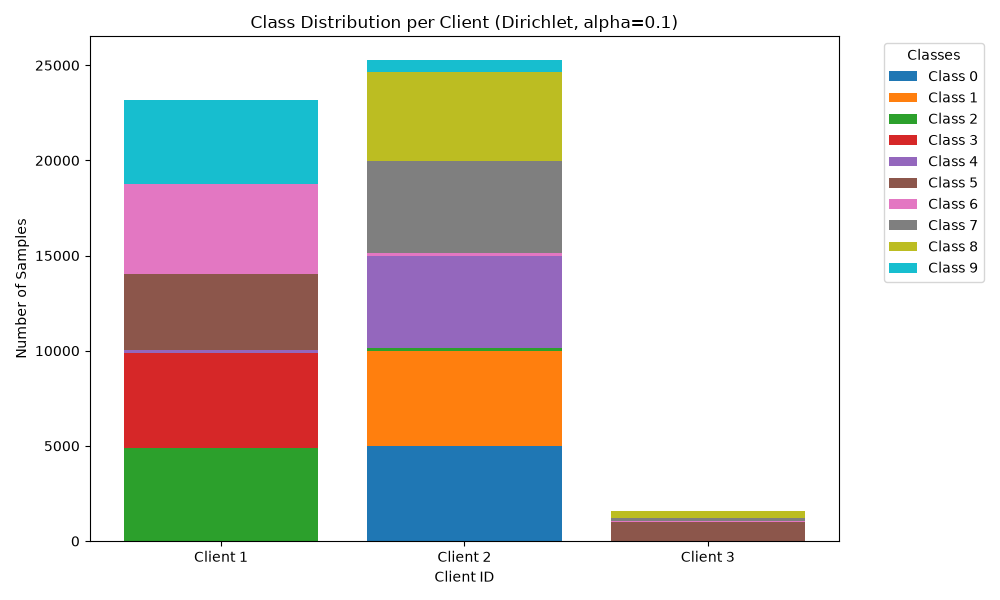
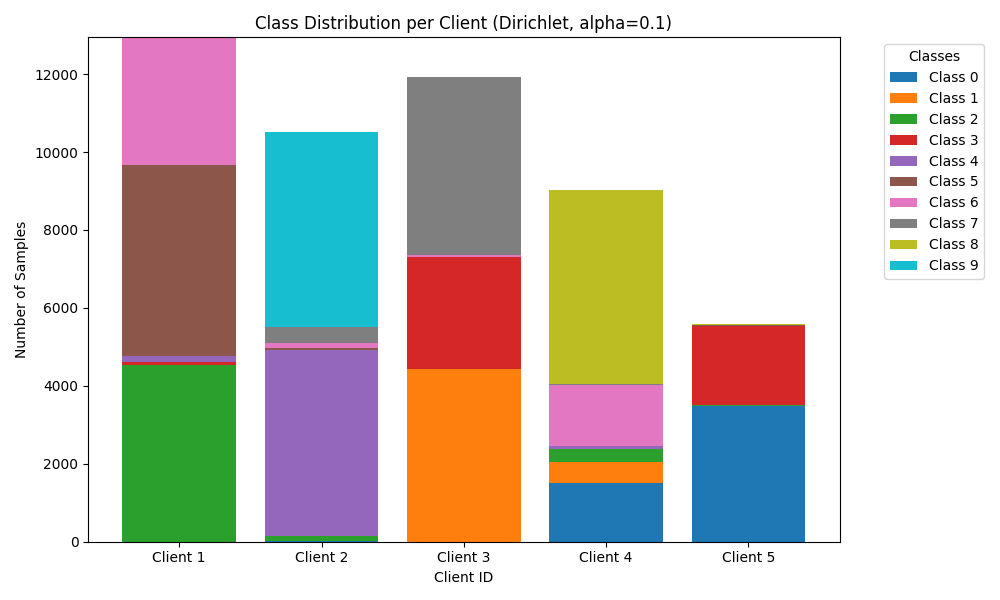
Establish validated DP-FL Stage 1-4 baseline
- corrected 5-client full Dirichlet split
- validated current DP-FL implementation
- genuine Opacus DP-SGD path
- per-client/per-round RDP accounting
- Stage 4 subset smoke-test evidence
- repository hygiene/.gitignore cleanup

diff --git a/federated.py b/federated.py
@@ -70,34 +70,52 @@ class FlowerClient(fl.client.NumPyClient):
                 max_grad_norm=CONFIG.get("max_grad_norm", 1.0),
             )
             
+            actual_sample_rate = getattr(train_loader, "sample_rate", -1.0)
+            actual_steps = len(train_loader)
+            
+            grad_sample_valid = False
+            grad_shapes = {}
+            actual_batch_size = None
+            opt_class = type(optimizer).__name__
+            
+            if not os.path.exists("results/stage4/validation.json"):
+                batch_x, batch_y = next(iter(train_loader))
+                actual_batch_size = len(batch_x)
+                optimizer.zero_grad()
+                loss = torch.nn.CrossEntropyLoss()(self.net(batch_x.to(self.device)), batch_y.to(self.device))
+                loss.backward()
+                for name, param in self.net.named_parameters():
+                    if param.requires_grad and hasattr(param, "grad_sample"):
+                        grad_sample_valid = True
+                        grad_shapes[name] = list(param.grad_sample.shape)
+                optimizer.zero_grad()
+            
             for epoch in range(1, local_epochs + 1):
                 train(self.net, self.device, train_loader, optimizer, epoch)
                 
             epsilon = privacy_engine.accountant.get_epsilon(delta=1e-5)
             print(f"[Client {self.cid}] Opacus Accountant Epsilon: {epsilon:.4f}")
             
-            # Validation logic for grad_sample
-            grad_sample_valid = True
-            grad_shapes = {}
-            for name, param in self.net.named_parameters():
-                if param.requires_grad:
-                    if not hasattr(param, "grad_sample"):
-                        grad_sample_valid = False
-                    else:
-                        grad_shapes[name] = list(param.grad_sample.shape)
-                        
-            # Save validation to a file if it's the first client's first round
             if not os.path.exists("results/stage4/validation.json"):
                 os.makedirs("results/stage4", exist_ok=True)
                 val_data = {
                     "grad_sample_present": grad_sample_valid,
                     "grad_sample_shapes": grad_shapes,
                     "clipping_C": CONFIG.get("max_grad_norm", 1.0),
-                    "noise_sigma": CONFIG.get("noise_multiplier", 1.0)
+                    "noise_sigma": CONFIG.get("noise_multiplier", 1.0),
+                    "actual_batch_size_probed": actual_batch_size,
+                    "optimizer_class": opt_class
                 }
                 with open("results/stage4/validation.json", "w") as f:
                     json.dump(val_data, f, indent=4)
                     
+            metrics = {
+                "client_id": str(self.cid),
+                "sample_rate": float(actual_sample_rate),
+                "dp_steps": int(actual_steps * local_epochs),
+                "sigma": float(CONFIG.get("noise_multiplier", 1.0)),
+                "C": float(CONFIG.get("max_grad_norm", 1.0))
+            }
             self.net = self.net._module
         else:
             lr = CONFIG.get("fed_lr", 0.01)
@@ -109,8 +127,10 @@ class FlowerClient(fl.client.NumPyClient):
                 
             for epoch in range(1, local_epochs + 1):
                 train(self.net, self.device, self.train_loader, optimizer, epoch)
+            metrics = {}
                 
-        return self.get_parameters(config={}), len(self.train_loader.dataset), {}
+        return self.get_parameters(config={}), len(self.train_loader.dataset), metrics
+
         
     def evaluate(self, parameters, config):
         self.set_parameters(parameters)
@@ -133,7 +153,23 @@ def client_fn(cid: str) -> FlowerClient:
     
     return FlowerClient(cid, net, train_loader, test_loader, device, use_dp=USE_DP)
 
+
+def fit_metrics_aggregation_fn(results: List[Tuple[int, Dict[str, fl.common.Scalar]]]) -> Dict[str, fl.common.Scalar]:
+    if not results or not results[0][1].get("client_id"):
+        return {}
+    client_stats = []
+    for _, m in results:
+        client_stats.append({
+            "client_id": m["client_id"],
+            "sample_rate": m["sample_rate"],
+            "dp_steps": m["dp_steps"],
+            "sigma": m["sigma"],
+            "C": m["C"]
+        })
+    return {"client_stats": json.dumps(client_stats)}
+
 def evaluate_metrics_aggregation_fn(results: List[Tuple[int, Dict[str, float]]]) -> Dict[str, float]:
+
     """Aggregate evaluation metrics over clients."""
     if not results:
         return {}
@@ -151,7 +187,7 @@ def load_baseline_result(mode, seed):
     return None
 
 def main():
-    global GLOBAL_TRAINSET, GLOBAL_TESTSET, CLIENT_INDICES, USE_DP
+    global GLOBAL_TRAINSET, GLOBAL_TESTSET, CLIENT_INDICES, USE_DP, CONFIG
     
     parser = argparse.ArgumentParser(description="Run Flower Federation")
     parser.add_argument("--full", action="store_true", help="Run on full CIFAR-10 instead of subset")
@@ -199,6 +235,7 @@ def main():
         min_evaluate_clients=num_clients,
         min_available_clients=num_clients,
         evaluate_metrics_aggregation_fn=evaluate_metrics_aggregation_fn,
+        fit_metrics_aggregation_fn=fit_metrics_aggregation_fn,
     )
     
     print(f"CUDA Available: {torch.cuda.is_available()}")
@@ -213,6 +250,12 @@ def main():
     
     start_time = time.time()
     
+    try:
+        import ray._private.utils
+        ray._private.utils.set_kill_child_on_death_win32 = lambda *args, **kwargs: None
+    except Exception:
+        pass
+        
     history = fl.simulation.start_simulation(
         client_fn=client_fn,
         num_clients=num_clients,
@@ -297,45 +340,65 @@ def main():
         print(f"Results saved to {out_dir}")
         
     else:
-        # Calculate RDP for Stage 4/5
-        # Use correct Opacus sample rate: q = batch_size / dataset_size
+        # Calculate RDP for Stage 4/5 based on actual client accounting
         alphas = [1.0 + x / 10.0 for x in range(1, 100)] + list(range(12, 64))
         
-        # For privacy accounting under parallel composition (clients don't overlap),
-        # we bound the global epsilon by the maximum client epsilon.
-        # We use the client with the highest sample rate (smallest dataset) as the worst case.
-        max_sample_rate = 0
-        max_steps_per_epoch = 0
-        for i in range(num_clients):
-            dataset_size = len(CLIENT_INDICES[i])
-            batch_size = CONFIG.get("batch_size", 32)
-            # Opacus uses Poisson sampling: q = batch_size / dataset_size
-            sample_rate = batch_size / dataset_size
-            steps_per_epoch = math.ceil(dataset_size / batch_size)
-            if sample_rate > max_sample_rate:
-                max_sample_rate = sample_rate
-                max_steps_per_epoch = steps_per_epoch
-                
-        steps_per_round = max_steps_per_epoch * CONFIG.get("local_epochs", 1)
+        client_rdp_state = {str(i): np.zeros(len(alphas)) for i in range(num_clients)}
+        client_cumulative_steps = {str(i): 0 for i in range(num_clients)}
         
-        # Calculate per-round epsilon
         round_stats = []
-        for r, acc in enumerate(acc_history):
-            round_idx = r + 1
-            total_steps_r = steps_per_round * round_idx
-            rdp = compute_rdp(q=max_sample_rate, noise_multiplier=CONFIG.get("noise_multiplier", 1.0), steps=total_steps_r, orders=alphas)
-            epsilon_r, best_alpha_r = get_privacy_spent(orders=alphas, rdp=rdp, delta=1e-5)
+        fit_metrics = history.metrics_distributed_fit.get("client_stats", [])
+        
+        for r_idx, acc in enumerate(acc_history):
+            round_num = r_idx + 1
+            stats_str = None
+            for r, s in fit_metrics:
+                if r == round_num:
+                    stats_str = s
+                    break
+                    
+            if not stats_str:
+                continue
+                
+            client_stats = json.loads(stats_str)
+            round_epsilons = {}
+            
+            for c_stat in client_stats:
+                cid = str(c_stat["client_id"])
+                q = float(c_stat["sample_rate"])
+                steps = int(c_stat["dp_steps"])
+                sigma = float(c_stat["sigma"])
+                
+                rdp_increment = compute_rdp(q=q, noise_multiplier=sigma, steps=steps, orders=alphas)
+                client_rdp_state[cid] += rdp_increment
+                client_cumulative_steps[cid] += steps
+                
+                eps, best_alpha = get_privacy_spent(orders=alphas, rdp=client_rdp_state[cid], delta=1e-5)
+                round_epsilons[cid] = {
+                    "epsilon": eps, 
+                    "best_alpha": best_alpha, 
+                    "cumulative_steps": client_cumulative_steps[cid], 
+                    "sample_rate": q, 
+                    "round_steps": steps
+                }
+                
+            worst_client = max(round_epsilons.keys(), key=lambda k: round_epsilons[k]["epsilon"])
+            worst_eps = round_epsilons[worst_client]["epsilon"]
+            worst_alpha = round_epsilons[worst_client]["best_alpha"]
+            
             round_stats.append({
-                "round": round_idx,
-                "dp_steps": total_steps_r,
-                "epsilon": epsilon_r,
-                "best_alpha": best_alpha_r,
-                "test_acc": acc
+                "round": round_num,
+                "global_epsilon": worst_eps,
+                "best_alpha": worst_alpha,
+                "test_acc": acc,
+                "worst_client": worst_client,
+                "client_details": round_epsilons
             })
             
-        final_epsilon = round_stats[-1]["epsilon"] if round_stats else 0
+        final_epsilon = round_stats[-1]["global_epsilon"] if round_stats else 0
         final_best_alpha = round_stats[-1]["best_alpha"] if round_stats else 0
-        total_steps = steps_per_round * num_rounds
+        total_steps = max(client_cumulative_steps.values()) if client_cumulative_steps else 0
+        max_sample_rate = max([round_stats[-1]["client_details"][cid]["sample_rate"] for cid in client_cumulative_steps]) if round_stats else 0
         
         out_dir = args.output_dir
         os.makedirs(out_dir, exist_ok=True)
@@ -374,9 +437,10 @@ def main():
             
         with open(os.path.join(out_dir, "rounds.csv"), "w", newline="") as f:
             writer = csv.writer(f)
-            writer.writerow(["round", "dp_steps", "epsilon", "best_alpha", "test_acc"])
+            writer.writerow(["round", "max_dp_steps", "global_epsilon", "best_alpha", "test_acc"])
             for stat in round_stats:
-                writer.writerow([stat["round"], stat["dp_steps"], stat["epsilon"], stat["best_alpha"], stat["test_acc"]])
+                max_steps = max([d["round_steps"] for d in stat["client_details"].values()]) if "client_details" in stat else 0
+                writer.writerow([stat["round"], max_steps, stat["global_epsilon"], stat["best_alpha"], stat["test_acc"]])
                 
         # Comparison with Stage 2 and Stage 3 - we disable automatic plotting in grid search mode if output_dir is customized
         if args.output_dir == "results/stage4":

diff --git a/data_split.py b/data_split.py
@@ -132,9 +132,14 @@ def main():
     np.random.seed(42)
     torch.manual_seed(42)
     
-    num_samples = CONFIG.get("num_samples", 1000)
-    num_clients = CONFIG.get("num_clients", 3)
-    alpha = CONFIG.get("alpha", 0.1)
+    if args.full:
+        from config import FULL_CONFIG as active_config
+    else:
+        from config import SUBSET_CONFIG as active_config
+
+    num_samples = active_config.get("num_samples", 1000)
+    num_clients = active_config.get("num_clients", 3)
+    alpha = active_config.get("alpha", 0.1)
     
     if args.full:
         print(f"Running Dirichlet split on FULL CIFAR-10, clients: {num_clients}, alpha: {alpha}")
